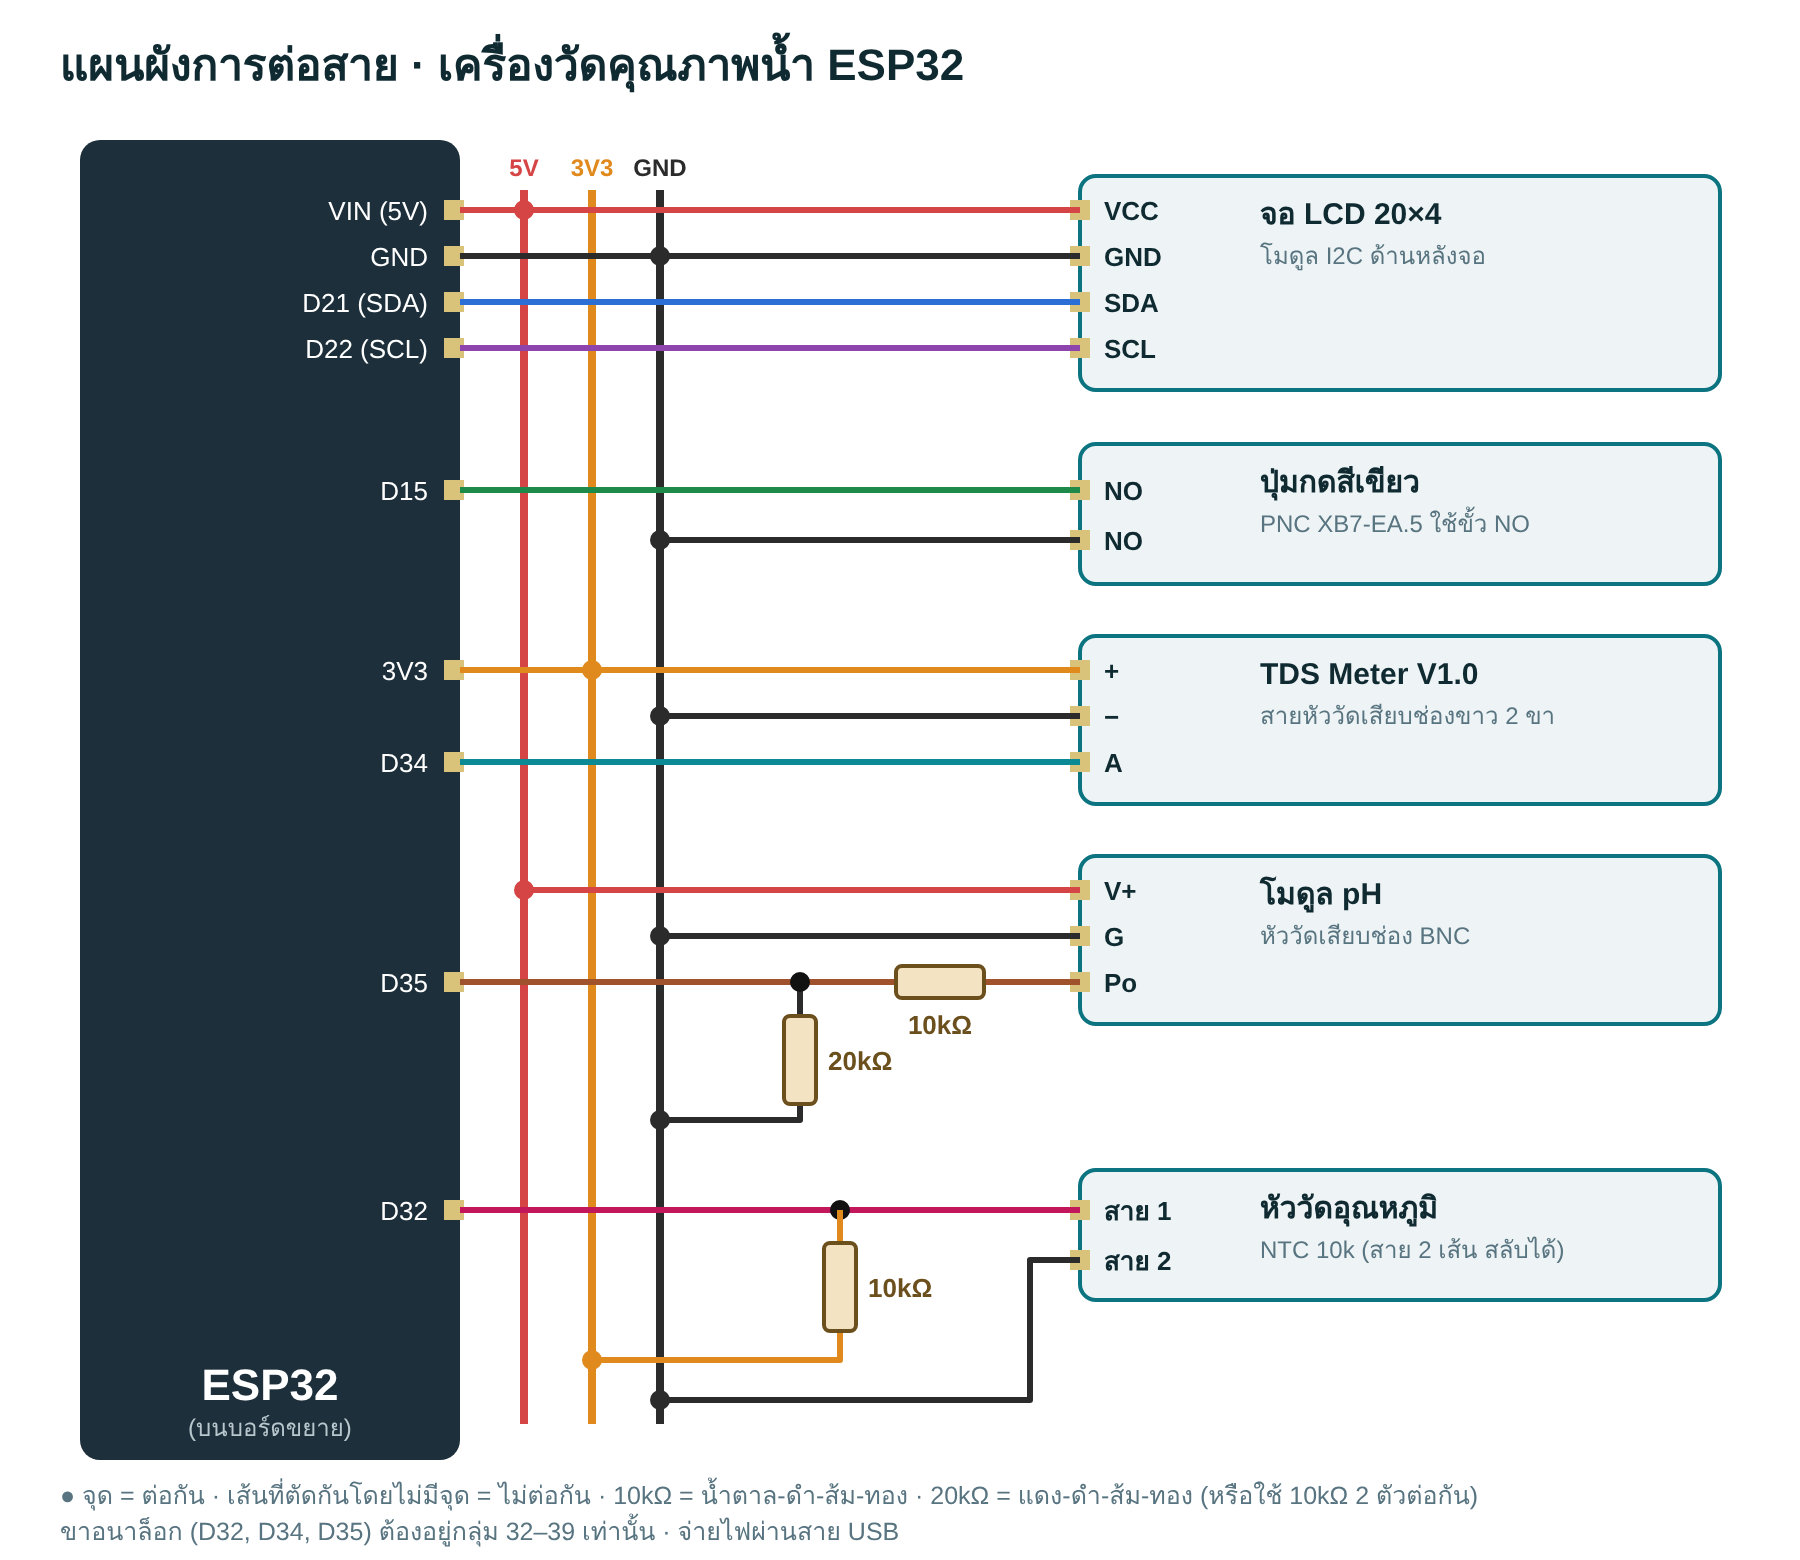
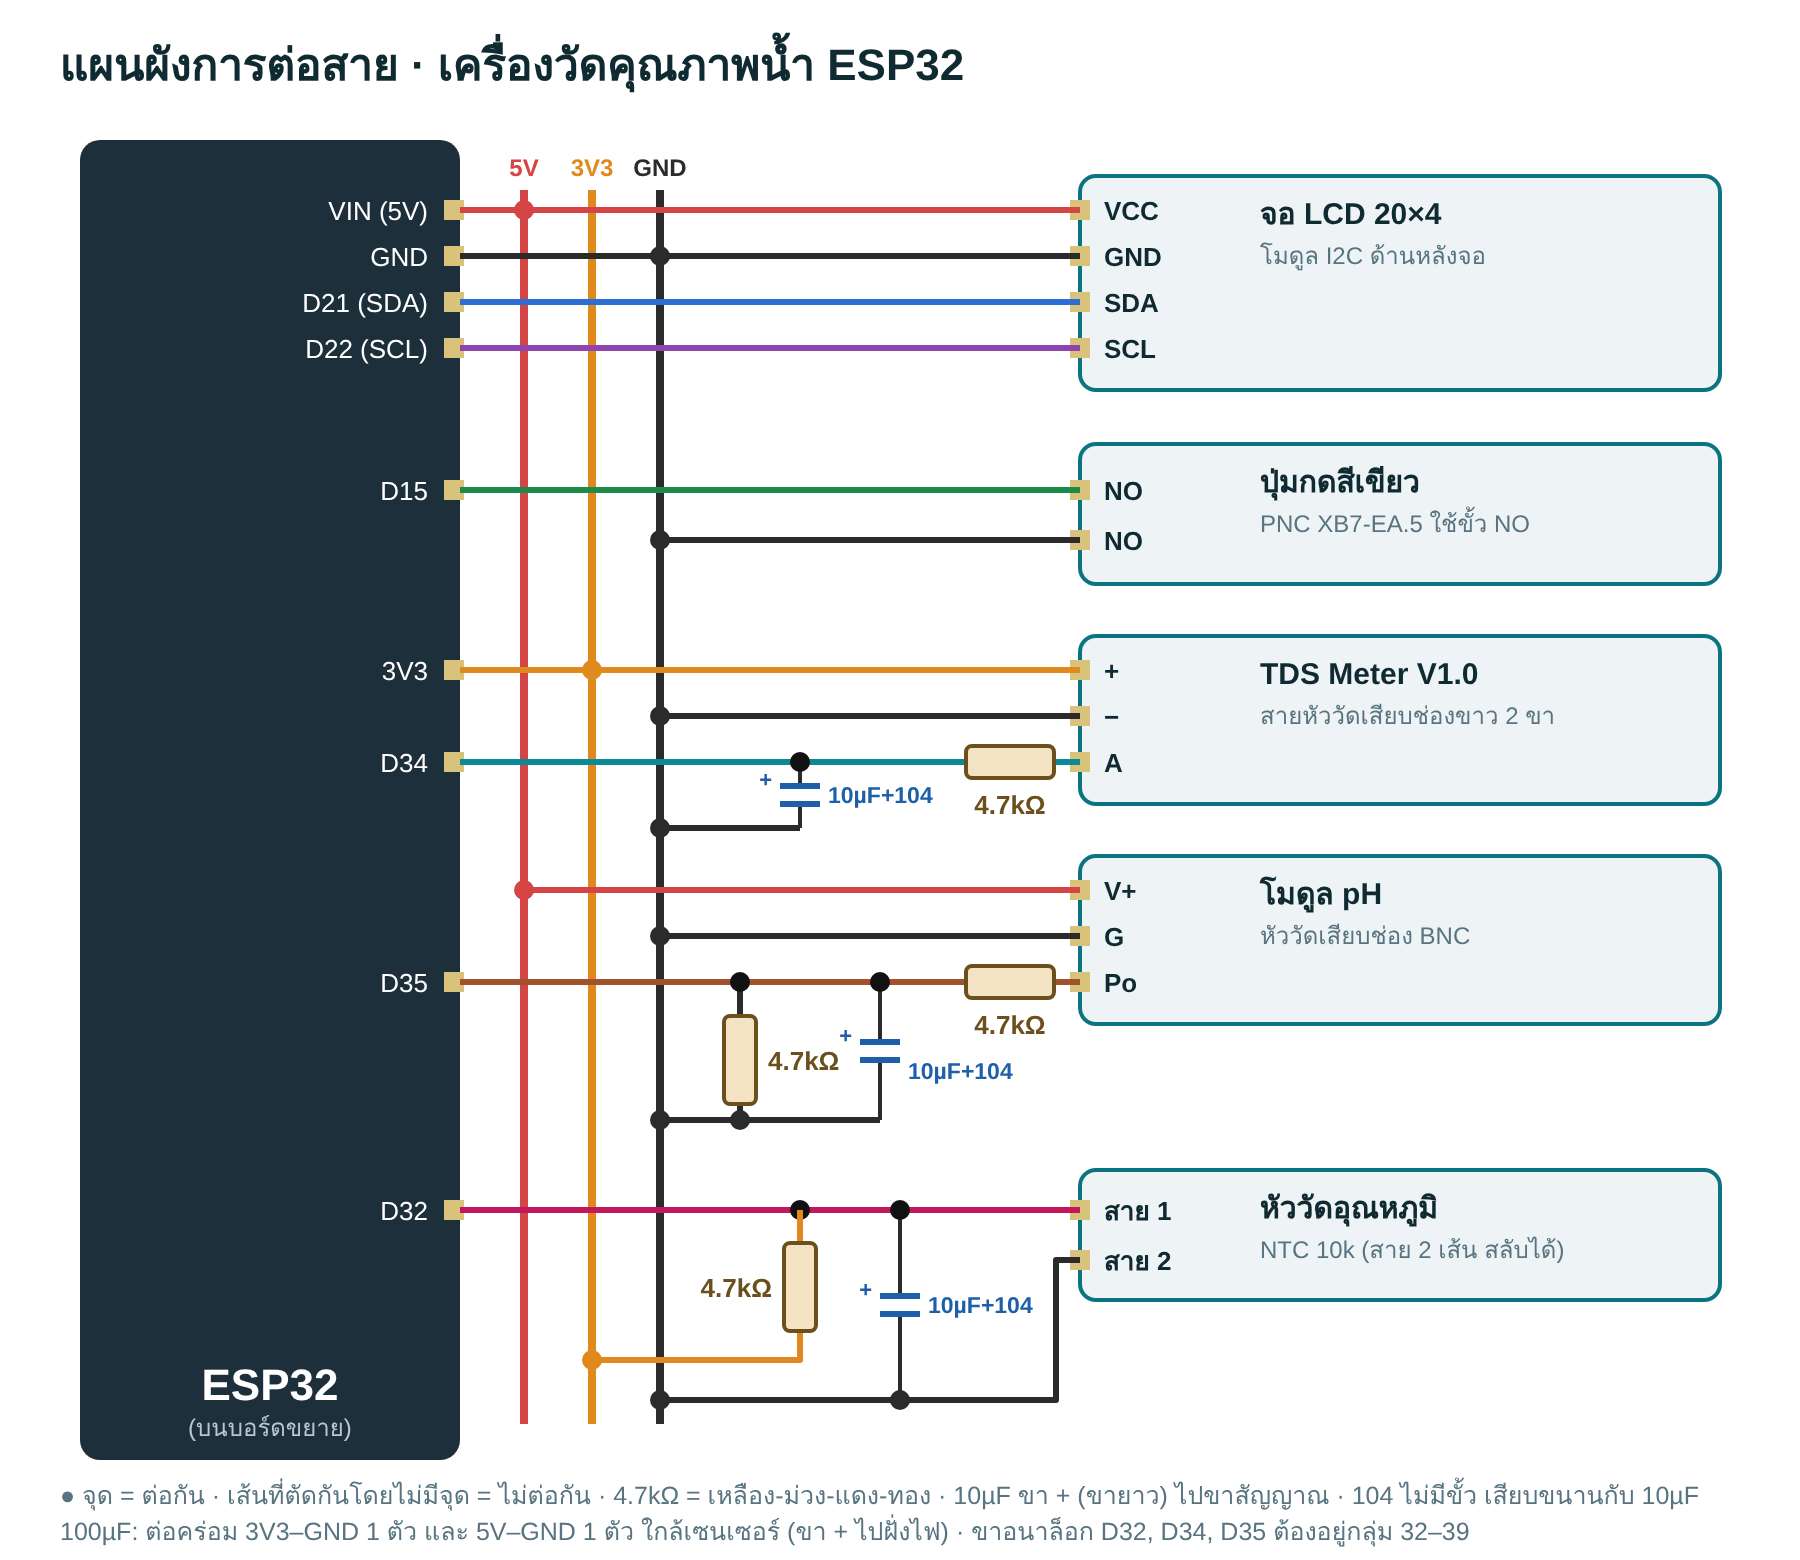
ใช้ตัวต้านทาน 4.7k และเพิ่มตัวกรองสัญญาณ RC ในวงจร
- config.h: NTC_SERIES_OHM = 4700, PH_DIVIDER = 2.0 (4.7k + 4.7k)
- แผนผังวงจร: ตัวกรอง 4.7k + 10µF + 104 ที่ D34, D35, D32 และ 100µF ที่ไฟเลี้ยง
- README: รายการอุปกรณ์และตารางการต่อสายตามของที่มีจริง

Claude-Session: https://claude.ai/code/session_01HLqKeGncnHJACoXNxPcGh5

diff --git a/tools/make_wiring.py b/tools/make_wiring.py
@@ -29,16 +29,30 @@ def text(x, y, t, size=14, fill="#102a32", anchor="start", bold=False):
     A(f'<text x="{x}" y="{y}" font-size="{size}" fill="{fill}" text-anchor="{anchor}"{b}>{t}</text>')
 
 
-def res_v(x, y1, y2, label):
+def res_v(x, y1, y2, label, left=False):
     m = (y1 + y2) / 2
     A(f'<rect x="{x-8}" y="{m-22}" width="16" height="44" rx="3" fill="#f3e3c3" stroke="#6b4f1d" stroke-width="2"/>')
-    text(x + 14, m + 5, label, 13, "#6b4f1d", bold=True)
+    if left:
+        text(x - 14, m + 5, label, 13, "#6b4f1d", "end", True)
+    else:
+        text(x + 14, m + 5, label, 13, "#6b4f1d", bold=True)
 
 
 def res_h(x1, x2, y, label):
     m = (x1 + x2) / 2
     A(f'<rect x="{m-22}" y="{y-8}" width="44" height="16" rx="3" fill="#f3e3c3" stroke="#6b4f1d" stroke-width="2"/>')
     text(m, y + 26, label, 13, "#6b4f1d", "middle", True)
+
+
+def cap_v(x, y1, y2, label, dy=4):
+    """ตัวเก็บประจุแนวตั้ง (10µF มีขั้ว + ขนานกับ 104)"""
+    m = (y1 + y2) / 2
+    line([(x, y1), (x, m - 4)], "#2b2b2b", 2)
+    line([(x, m + 4), (x, y2)], "#2b2b2b", 2)
+    A(f'<rect x="{x-10}" y="{m-6}" width="20" height="3" fill="#1d5fa8"/>')
+    A(f'<rect x="{x-10}" y="{m+3}" width="20" height="3" fill="#1d5fa8"/>')
+    text(x - 14, m - 4, "+", 11, "#1d5fa8", "end", True)
+    text(x + 14, m + dy, label, 11.5, "#1d5fa8", bold=True)
 
 
 def module(y1, y2, title, sub, pins):
@@ -92,25 +106,33 @@ line([(230, 151), (MX, 151)], "#2b6fd6")
 line([(230, 174), (MX, 174)], "#8e44ad")
 line([(230, 245), (MX, 245)], "#1d8a4a")
 line([(230, 381), (MX, 381)], "#0b8a96")
+res_h(483, 527, 381, "4.7kΩ")
+cap_v(400, 381, 414, "10µF+104")
+line([(400, 414), (XG, 414)], CG); dot(XG, 414, CG); dot(400, 381)
 
-# pH: Po -> 10k -> จุดต่อ -> D35 ; จุดต่อ -> 20k -> GND
-NP = 400
+# pH: Po -> 4.7k -> จุดต่อ -> D35 ; จุดต่อ -> 4.7k -> GND ; จุดต่อ -> 10µF+104 -> GND
+NP = 370
 line([(MX, 491), (230, 491)], "#a0522d")
-res_h(440, 500, 491, "10kΩ")
-line([(NP, 491), (NP, 560), (XG, 560)], CG)
-res_v(NP, 500, 560, "20kΩ")
-dot(XG, 560, CG); dot(NP, 491)
+res_h(483, 527, 491, "4.7kΩ")
+line([(NP, 491), (NP, 560)], CG)
+res_v(NP, 500, 560, "4.7kΩ")
+cap_v(440, 491, 560, "10µF+104", dy=14)
+line([(440, 560), (XG, 560)], CG)
+dot(NP, 491); dot(440, 491); dot(NP, 560, CG); dot(XG, 560, CG)
 
-# NTC: 3V3 -> 10k -> จุดต่อ -> D32 ; จุดต่อ -> NTC -> GND
-NT = 420
+# NTC: 3V3 -> 4.7k -> จุดต่อ -> D32 ; จุดต่อ -> NTC -> GND ; จุดต่อ -> 10µF+104 -> GND
+NT = 400
 line([(MX, 605), (230, 605)], "#c2185b"); dot(NT, 605)
 line([(NT, 605), (NT, 680), (X33, 680)], C33)
-res_v(NT, 615, 672, "10kΩ"); dot(X33, 680, C33)
-line([(MX, 630), (515, 630), (515, 700), (XG, 700)], CG); dot(XG, 700, CG)
+res_v(NT, 615, 672, "4.7kΩ", left=True)
+cap_v(450, 605, 700, "10µF+104")
+dot(450, 605); dot(450, 700, CG); dot(X33, 680, C33)
+line([(MX, 630), (528, 630), (528, 700), (XG, 700)], CG); dot(XG, 700, CG)
 
-text(30, 752, "● จุด = ต่อกัน · เส้นที่ตัดกันโดยไม่มีจุด = ไม่ต่อกัน · 10kΩ = น้ำตาล-ดำ-ส้ม-ทอง · "
-     "20kΩ = แดง-ดำ-ส้ม-ทอง (หรือใช้ 10kΩ 2 ตัวต่อกัน)", 12.5, "#587480")
-text(30, 770, "ขาอนาล็อก (D32, D34, D35) ต้องอยู่กลุ่ม 32–39 เท่านั้น · จ่ายไฟผ่านสาย USB", 12.5, "#587480")
+text(30, 752, "● จุด = ต่อกัน · เส้นที่ตัดกันโดยไม่มีจุด = ไม่ต่อกัน · 4.7kΩ = เหลือง-ม่วง-แดง-ทอง · "
+     "10µF ขา + (ขายาว) ไปขาสัญญาณ · 104 ไม่มีขั้ว เสียบขนานกับ 10µF", 12.5, "#587480")
+text(30, 770, "100µF: ต่อคร่อม 3V3–GND 1 ตัว และ 5V–GND 1 ตัว ใกล้เซนเซอร์ (ขา + ไปฝั่งไฟ) · "
+     "ขาอนาล็อก D32, D34, D35 ต้องอยู่กลุ่ม 32–39", 12.5, "#587480")
 A("</svg>")
 
 OUT.write_text("\n".join(out), encoding="utf-8")

diff --git a/firmware/water_quality_meter/config.h b/firmware/water_quality_meter/config.h
@@ -5,18 +5,18 @@
 // ================= ขาที่ใช้ =================
 // ขาอนาล็อกต้องอยู่กลุ่ม ADC1 (32-39) เพราะ ADC2 ใช้ไม่ได้ตอนเปิด WiFi
 const int PIN_TDS    = 34;  // TDS: ขา A
-const int PIN_PH     = 35;  // pH: ขา Po ผ่านตัวแบ่งแรงดัน 10k/20k
-const int PIN_TEMP   = 32;  // NTC 10k + ตัวต้านทาน 10k ไป 3V3
+const int PIN_PH     = 35;  // pH: ขา Po ผ่านตัวแบ่งแรงดัน 4.7k/4.7k
+const int PIN_TEMP   = 32;  // NTC 10k + ตัวต้านทาน 4.7k ไป 3V3
 const int PIN_BUTTON = 15;  // ปุ่มเขียว (อีกขาต่อ GND)
 const int PIN_SDA    = 21;
 const int PIN_SCL    = 22;
 
 // ================= ค่าวงจร =================
 const float VREF_MV         = 3300.0;   // ไฟเลี้ยงตัวแบ่งแรงดัน NTC (3V3)
-const float NTC_SERIES_OHM  = 10000.0;  // ตัวต้านทานที่ต่อกับ NTC
+const float NTC_SERIES_OHM  = 4700.0;   // ตัวต้านทานที่ต่อกับ NTC (4.7k)
 const float NTC_NOMINAL_OHM = 10000.0;  // NTC 10k ที่ 25°C
 const float NTC_BETA        = 3950.0;   // ค่า B ของ NTC
-const float PH_DIVIDER      = 1.5;      // (10k + 20k) / 20k
+const float PH_DIVIDER      = 2.0;      // (4.7k + 4.7k) / 4.7k  ถ้าใช้ 10k+20k ให้แก้เป็น 1.5
 
 // ค่าที่ใช้ตัดสินว่า "เซนเซอร์ไม่ได้ต่อ"
 const float NOISE_SPREAD_MV = 250.0;    // สัญญาณแกว่งเกินนี้ = สายลอย

diff --git a/README.md b/README.md
@@ -38,11 +38,13 @@
 | 4 | TDS Meter V1.0 + หัววัด | วัด TDS (0–1000 ppm) |
 | 5 | โมดูล pH + หัววัด BNC | วัด pH |
 | 6 | หัววัดอุณหภูมิ NTC 10k (2 สาย) | วัดอุณหภูมิน้ำ |
-| 7 | ตัวต้านทาน **10kΩ × 2** (น้ำตาล-ดำ-ส้ม-ทอง) | ตัวแบ่งแรงดัน pH 1 ตัว และใช้กับ NTC 1 ตัว |
-| 8 | ตัวต้านทาน **20kΩ × 1** (แดง-ดำ-ส้ม-ทอง) | ตัวแบ่งแรงดัน pH (ไม่มีก็ใช้ 10kΩ 2 ตัวต่ออนุกรมแทน) |
+| 7 | ตัวต้านทาน **4.7kΩ × 4** (เหลือง-ม่วง-แดง-ทอง) | ตัวแบ่งแรงดัน pH 2 ตัว, NTC 1 ตัว, ตัวกรอง TDS 1 ตัว |
+| 8 | ตัวเก็บประจุ **10µF 16V × 3** (มีขั้ว) | กรองสัญญาณ pH, TDS, อุณหภูมิ |
+| 9 | ตัวเก็บประจุ **104 (0.1µF) × 3** (ไม่มีขั้ว) | กรองสัญญาณรบกวนจาก WiFi |
+| 10 | ตัวเก็บประจุ **100µF 16V × 2** (มีขั้ว) | ทำให้ไฟเลี้ยง 3V3 และ 5V นิ่ง |
 
-> 🛒 **ต้องซื้อเพิ่ม:** ตัวต้านทาน 10kΩ จำนวน 4 ตัว (เผื่อใช้แทน 20kΩ) ร้านอิเล็กทรอนิกส์ขายตัวละไม่ถึง 1 บาท
-> ตัวต้านทาน 100Ω (น้ำตาล-ดำ-น้ำตาล-ทอง) ที่มีอยู่ ใช้ในโปรเจคนี้ไม่ได้
+> ใช้ตัวต้านทานค่าอื่นแทน 4.7kΩ ได้ (8.2k–22k) แต่ต้องแก้ `NTC_SERIES_OHM` และ `PH_DIVIDER` ใน `config.h`
+> ห้ามใช้ค่าต่ำกว่า 1kΩ เช่น 10Ω หรือ 100Ω
 
 ## แบ่งงาน: เว็บแก้ใน VS Code · อุปกรณ์แก้ใน Arduino IDE
 
@@ -75,31 +77,36 @@
 |---|---|---|
 | จอ LCD | VCC / GND / SDA / SCL | **VIN (5V)** / GND / **D21** / **D22** |
 | ปุ่มกด | ขั้ว NO ขั้วที่ 1 / ขั้ว NO ขั้วที่ 2 | **D15** / GND |
-| TDS | + / − / A | **3V3** / GND / **D34** |
-| pH | V+ / G | **VIN (5V)** / GND |
-| pH | Po | → 10kΩ → **D35** และจาก D35 → 20kΩ → GND |
-| อุณหภูมิ | สาย 1 | **D32** และจาก D32 → 10kΩ → **3V3** |
+| TDS | + / − | **3V3** / GND (100µF คร่อม 3V3–GND) |
+| TDS | A | → 4.7kΩ → **D34** และ D34 → 10µF + 104 → GND |
+| pH | V+ / G | **VIN (5V)** / GND (100µF คร่อม 5V–GND) |
+| pH | Po | → 4.7kΩ → **D35**, D35 → 4.7kΩ → GND และ D35 → 10µF + 104 → GND |
+| อุณหภูมิ | สาย 1 | **D32**, D32 → 4.7kΩ → **3V3** และ D32 → 10µF + 104 → GND |
 | อุณหภูมิ | สาย 2 | GND |
 
+ตัวเก็บประจุ 10µF และ 100µF **มีขั้ว**: ขายาว (+) ต่อฝั่งขาสัญญาณหรือไฟ ขาฝั่งแถบสี (−) ต่อ GND
+ตัวเก็บประจุ 104 ไม่มีขั้ว เสียบขนานกับ 10µF
+
 ### ตัวแบ่งแรงดันของ pH
-โมดูล pH จ่ายแรงดันได้ถึง 5V แต่ ESP32 รับได้แค่ 3.3V ตัวแบ่งแรงดันช่วยลดแรงดันเหลือ 2/3
+โมดูล pH จ่ายแรงดันได้ถึง 5V แต่ ESP32 รับได้แค่ 3.3V ตัวแบ่งแรงดัน (4.7kΩ สองตัว) ลดแรงดันเหลือครึ่งหนึ่ง
 และยังช่วยให้ระบบรู้ว่า **ยังไม่ได้ต่อโมดูล pH** (ค่าจะเป็น 0 แล้วแสดง `-`)
 
 ```
-pH Po ──[ 10kΩ ]──┬── D35
-                  │
-               [ 20kΩ ]   (หรือ 10kΩ + 10kΩ ต่อกัน)
-                  │
-                 GND
+pH Po ──[ 4.7kΩ ]──┬────────┬── D35
+                   │        │
+               [ 4.7kΩ ] [10µF+104]
+                   │        │
+GND ───────────────┴────────┘
 ```
 
 ### หัววัดอุณหภูมิ NTC
 ```
-3V3 ──[ 10kΩ ]──┬── D32
-                │
-              [NTC]   ← หัววัดสแตนเลส (สลับสายได้ ไม่มีขั้ว)
-                │
-               GND
+3V3 ──[ 4.7kΩ ]──┬──────────┬── D32
+                 │          │
+               [NTC]    [10µF+104]
+                 │          │
+GND ─────────────┴──────────┘
+NTC = หัววัดสแตนเลส (สลับสายได้ ไม่มีขั้ว)
 ```
 
 ### การตรวจว่าเซนเซอร์ "ไม่ได้วัด" (แสดง `-`)
@@ -107,7 +114,7 @@ pH Po ──[ 10kΩ ]──┬── D35
 |---|---|
 | pH | ไม่ได้ต่อโมดูล หรือแรงดันเกินช่วงที่อ่านได้ |
 | TDS | หัววัดไม่ได้จุ่มน้ำ หรือไม่ได้ต่อโมดูล (สัญญาณแกว่ง) |
-| อุณหภูมิ | สายหลุด สายช็อต หรือลืมต่อตัวต้านทาน 10kΩ |
+| อุณหภูมิ | สายหลุด สายช็อต หรือลืมต่อตัวต้านทาน 4.7kΩ |
 
 ถ้าไม่ได้วัดอุณหภูมิ ระบบจะใช้ 25°C ในการคำนวณ TDS แทน
 
